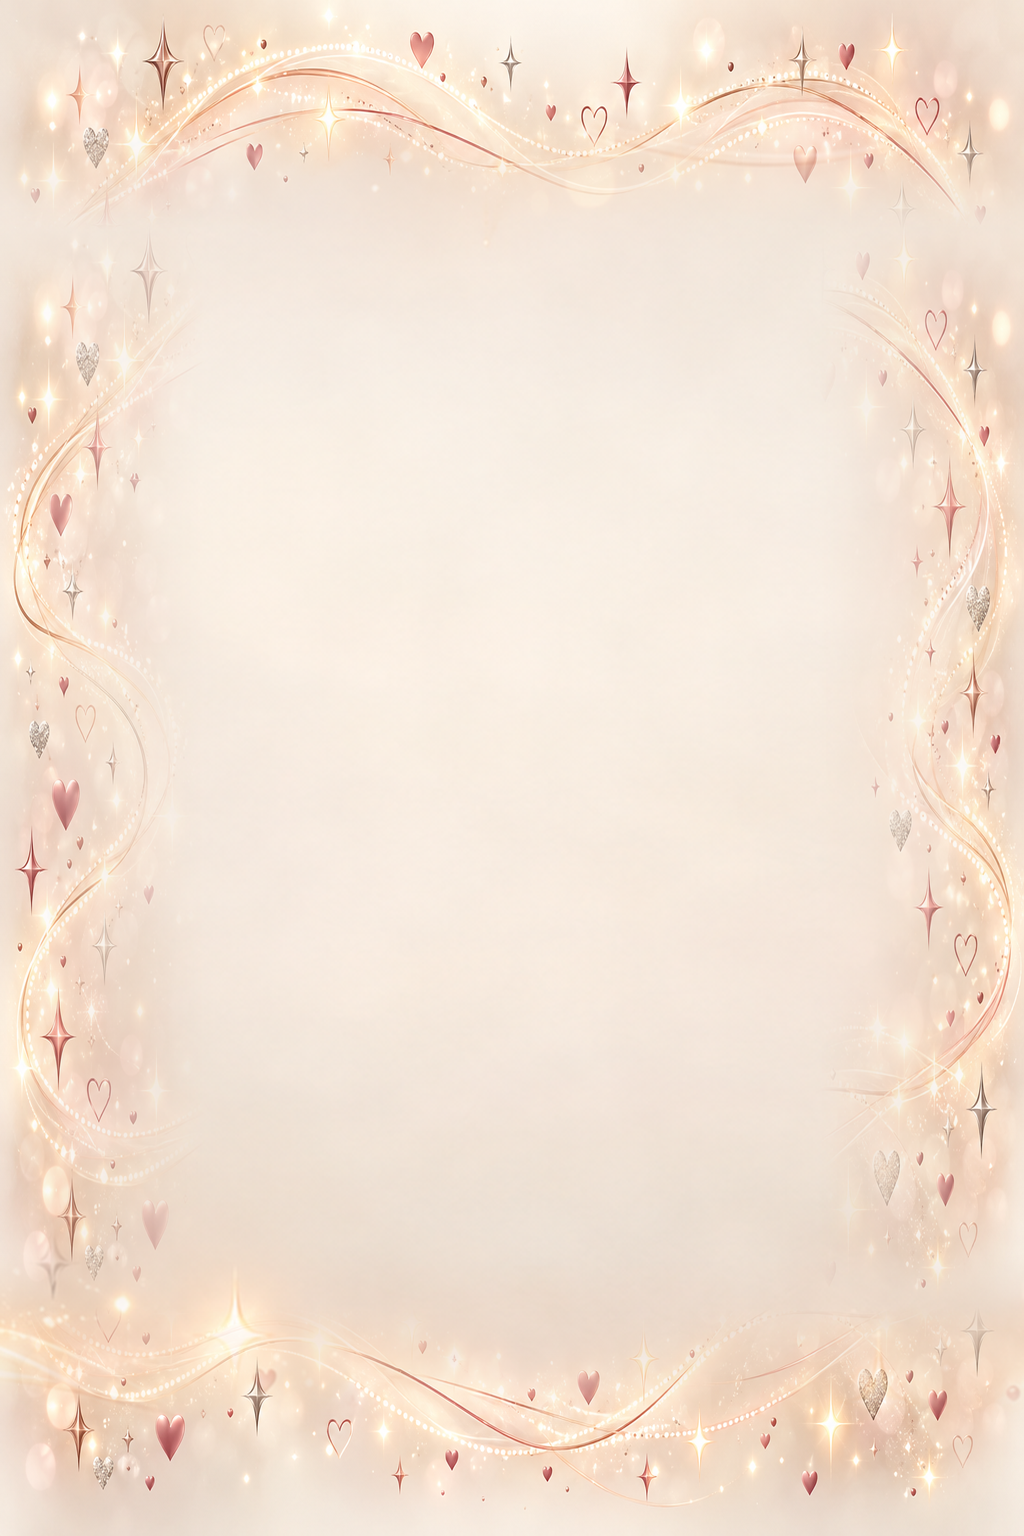
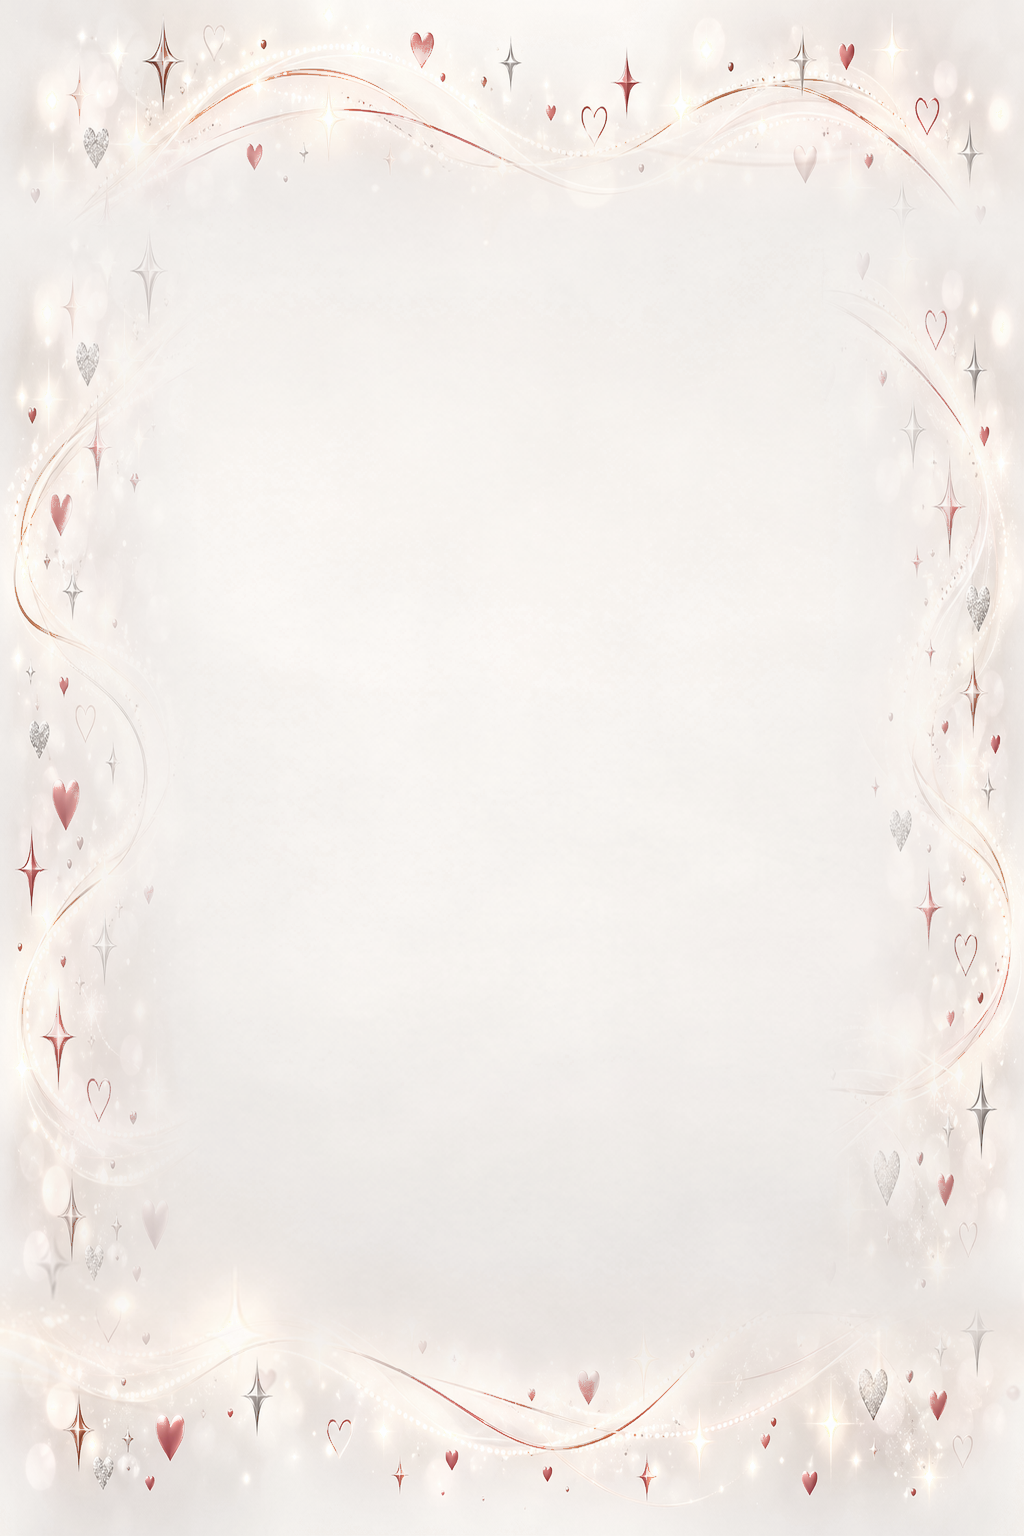
background

diff --git a/index.html b/index.html
@@ -7,12 +7,12 @@
 <meta name="description" content="Save the date for Vinay and Seema Singhal's silver jubilee.">
 <title>Save the Date | 25 Years of Togetherness</title>
 <style>
-:root{--ivory:#fff8ef;--silver:#d3cecb;--burgundy:#68192e;--deep:#42111f;--rose:#d49aa3}
-*{box-sizing:border-box}body{margin:0;min-height:100vh;padding:30px 0;background:radial-gradient(ellipse at 50% 15%,#fffdf8 0,rgba(255,250,243,.88) 30%,transparent 65%),radial-gradient(ellipse at 0 60%,#e8d9ce80,transparent 45%),radial-gradient(ellipse at 100% 75%,#e8d9ce80,transparent 45%),#f7efe6;color:var(--ivory);font-family:Georgia,"Times New Roman",serif;overflow-x:hidden}
+:root{--ivory:#faf9f7;--silver:#d4d7dc;--burgundy:#68192e;--deep:#42111f;--rose:#c995a0}
+*{box-sizing:border-box}body{margin:0;min-height:100vh;padding:30px 0;background:radial-gradient(ellipse at 50% 15%,#fffefd 0,rgba(250,249,248,.9) 30%,transparent 65%),radial-gradient(ellipse at 0 60%,#dfe0e380,transparent 45%),radial-gradient(ellipse at 100% 75%,#dfe0e380,transparent 45%),#f4f3f2;color:var(--ivory);font-family:Georgia,"Times New Roman",serif;overflow-x:hidden}
 .page{position:relative;isolation:isolate;width:min(92%,830px);margin:auto}
-.background-art{position:absolute;inset:-25px -35px;z-index:-1;pointer-events:none;background:url("assets/background.png") center/100% 100% no-repeat}
-.card{position:relative;isolation:isolate;overflow:hidden;text-align:center;padding:clamp(45px,7vw,72px) clamp(24px,7vw,66px);background:radial-gradient(ellipse at 50% 25%,#91344b38,transparent 58%),linear-gradient(160deg,#76263e,#67192e 48%,#4b1221);border:5px solid #95817d;border-radius:20px;box-shadow:0 24px 70px #471c273d}
-.frame{position:absolute;inset:17px;border:1px solid #b9a4a0;pointer-events:none;border-radius:12px;z-index:1}
+.background-art{position:absolute;inset:-75px -145px;z-index:-1;pointer-events:none;background:url("assets/background.png") center/100% 100% no-repeat}
+.card{position:relative;isolation:isolate;overflow:hidden;text-align:center;padding:clamp(45px,7vw,72px) clamp(24px,7vw,66px);background:radial-gradient(ellipse at 50% 25%,#91344b38,transparent 58%),linear-gradient(160deg,#76263e,#67192e 48%,#4b1221);border:5px solid #85868c;border-radius:20px;box-shadow:0 24px 70px #471c273d}
+.frame{position:absolute;inset:17px;border:1px solid #b7bbc1;pointer-events:none;border-radius:12px;z-index:1}
 /* One corner asset, mirrored for perfectly symmetrical placement */
 .corner{position:absolute;width:clamp(112px,18vw,170px);aspect-ratio:1200/1151;height:auto;z-index:2;pointer-events:none;filter:drop-shadow(0 0 2px #ffffff24);transform-origin:center center}
 .corner img{width:100%;height:100%;display:block;object-fit:contain}
@@ -21,18 +21,18 @@
 .br{bottom:8px;right:8px;transform:scale(-1,-1)}
 .bl{bottom:8px;left:8px;transform:scaleY(-1)}
 .content{position:relative;z-index:3}.ornament{width:100px;margin:0 auto 20px}.ornament img{width:100%;display:block}
-.eyebrow{font:10px/1.9 Arial,sans-serif;letter-spacing:.29em;text-transform:uppercase;color:#eee3df}
-h1{font-weight:400;font-size:clamp(43px,8vw,76px);line-height:1.04;letter-spacing:-.035em;margin:17px 0}h1 em{font-weight:400;color:#d0d1d1}
-.subtitle{font-style:italic;color:#f1e6e1;font-size:clamp(16px,2.7vw,22px);line-height:1.5}
+.eyebrow{font:10px/1.9 Arial,sans-serif;letter-spacing:.29em;text-transform:uppercase;color:#e9e9eb}
+h1{font-weight:400;font-size:clamp(43px,8vw,76px);line-height:1.04;letter-spacing:-.035em;margin:17px 0}h1 em{font-weight:400;color:#d7d9dc}
+.subtitle{font-style:italic;color:#eeedef;font-size:clamp(16px,2.7vw,22px);line-height:1.5}
 .divider{width:190px;max-width:65%;margin:25px auto}.divider img{display:block;width:100%}
-.names{font-size:clamp(30px,5.5vw,47px);line-height:1.38;margin:22px 0 27px}.amp{color:#c9c6c5;font-style:italic;font-size:.86em}
+.names{font-size:clamp(30px,5.5vw,47px);line-height:1.38;margin:22px 0 27px}.amp{color:#d0d2d5;font-style:italic;font-size:.86em}
 .medallion{width:min(82%,460px);margin:25px auto 22px}.medallion img{display:block;width:100%;height:auto;animation:glow 4s ease-in-out infinite;filter:drop-shadow(0 5px 8px #26071135)}
 .message{max-width:560px;margin:25px auto;font-size:clamp(15px,2.2vw,18px);line-height:1.8}
-.date{font-size:clamp(22px,4.5vw,34px);line-height:1.4;color:#d8d5d3;margin:15px 0}.details{font:11px/1.9 Arial,sans-serif;letter-spacing:.19em;text-transform:uppercase;color:#e7dedb}.footer{margin-top:27px;font-size:17px;font-style:italic;color:#eee1dc}
+.date{font-size:clamp(22px,4.5vw,34px);line-height:1.4;color:#dedfe2;margin:15px 0}.details{font:11px/1.9 Arial,sans-serif;letter-spacing:.19em;text-transform:uppercase;color:#e5e5e7}.footer{margin-top:27px;font-size:17px;font-style:italic;color:#e8e7e9}
 .floaters{position:absolute;inset:-28px -30px;pointer-events:none;overflow:hidden;z-index:5}.float{position:absolute;left:var(--x);top:var(--y);width:var(--s);height:var(--s);opacity:0;animation:float var(--t) ease-in-out var(--d) infinite}.float img{width:100%;height:100%;object-fit:contain}
 @keyframes float{0%{opacity:0;transform:translateY(10px) rotate(-12deg) scale(.8)}20%{opacity:.85}40%{opacity:.22;transform:translate(var(--dx),-7px) rotate(9deg) scale(1.04)}60%{opacity:.9}80%{opacity:.3;transform:translate(calc(var(--dx)*-.6),-20px) rotate(-8deg) scale(.9)}100%{opacity:0;transform:translateY(-30px) rotate(14deg) scale(.8)}}
 @keyframes glow{0%,100%{filter:drop-shadow(0 0 0 #fff0)}50%{filter:drop-shadow(0 0 10px #ffffff30)}}
-@media(max-width:600px){body{padding:20px 0}.page{width:calc(100% - 26px)}.card{padding:48px 22px}.frame{inset:14px}.corner{width:clamp(76px,24vw,100px)}.tl{top:7px;left:7px}.tr{top:7px;right:7px}.bl{bottom:7px;left:7px}.br{bottom:7px;right:7px}.eyebrow{font-size:8px;letter-spacing:.2em}.message{line-height:1.75}.details{font-size:9px;letter-spacing:.1em}.medallion{width:min(92%,360px)}.floaters{inset:-18px -8px}}
+@media(max-width:600px){body{padding:20px 0}.page{width:calc(100% - 26px)}.card{padding:48px 22px}.frame{inset:14px}.corner{width:clamp(76px,24vw,100px)}.tl{top:7px;left:7px}.tr{top:7px;right:7px}.bl{bottom:7px;left:7px}.br{bottom:7px;right:7px}.eyebrow{font-size:8px;letter-spacing:.2em}.message{line-height:1.75}.details{font-size:9px;letter-spacing:.1em}.medallion{width:min(92%,360px)}.background-art{inset:-42px -58px}.floaters{inset:-18px -8px}}
 @media(prefers-reduced-motion:reduce){*,*:before,*:after{animation:none!important}.float{opacity:.35}}
 </style>
 </head>
